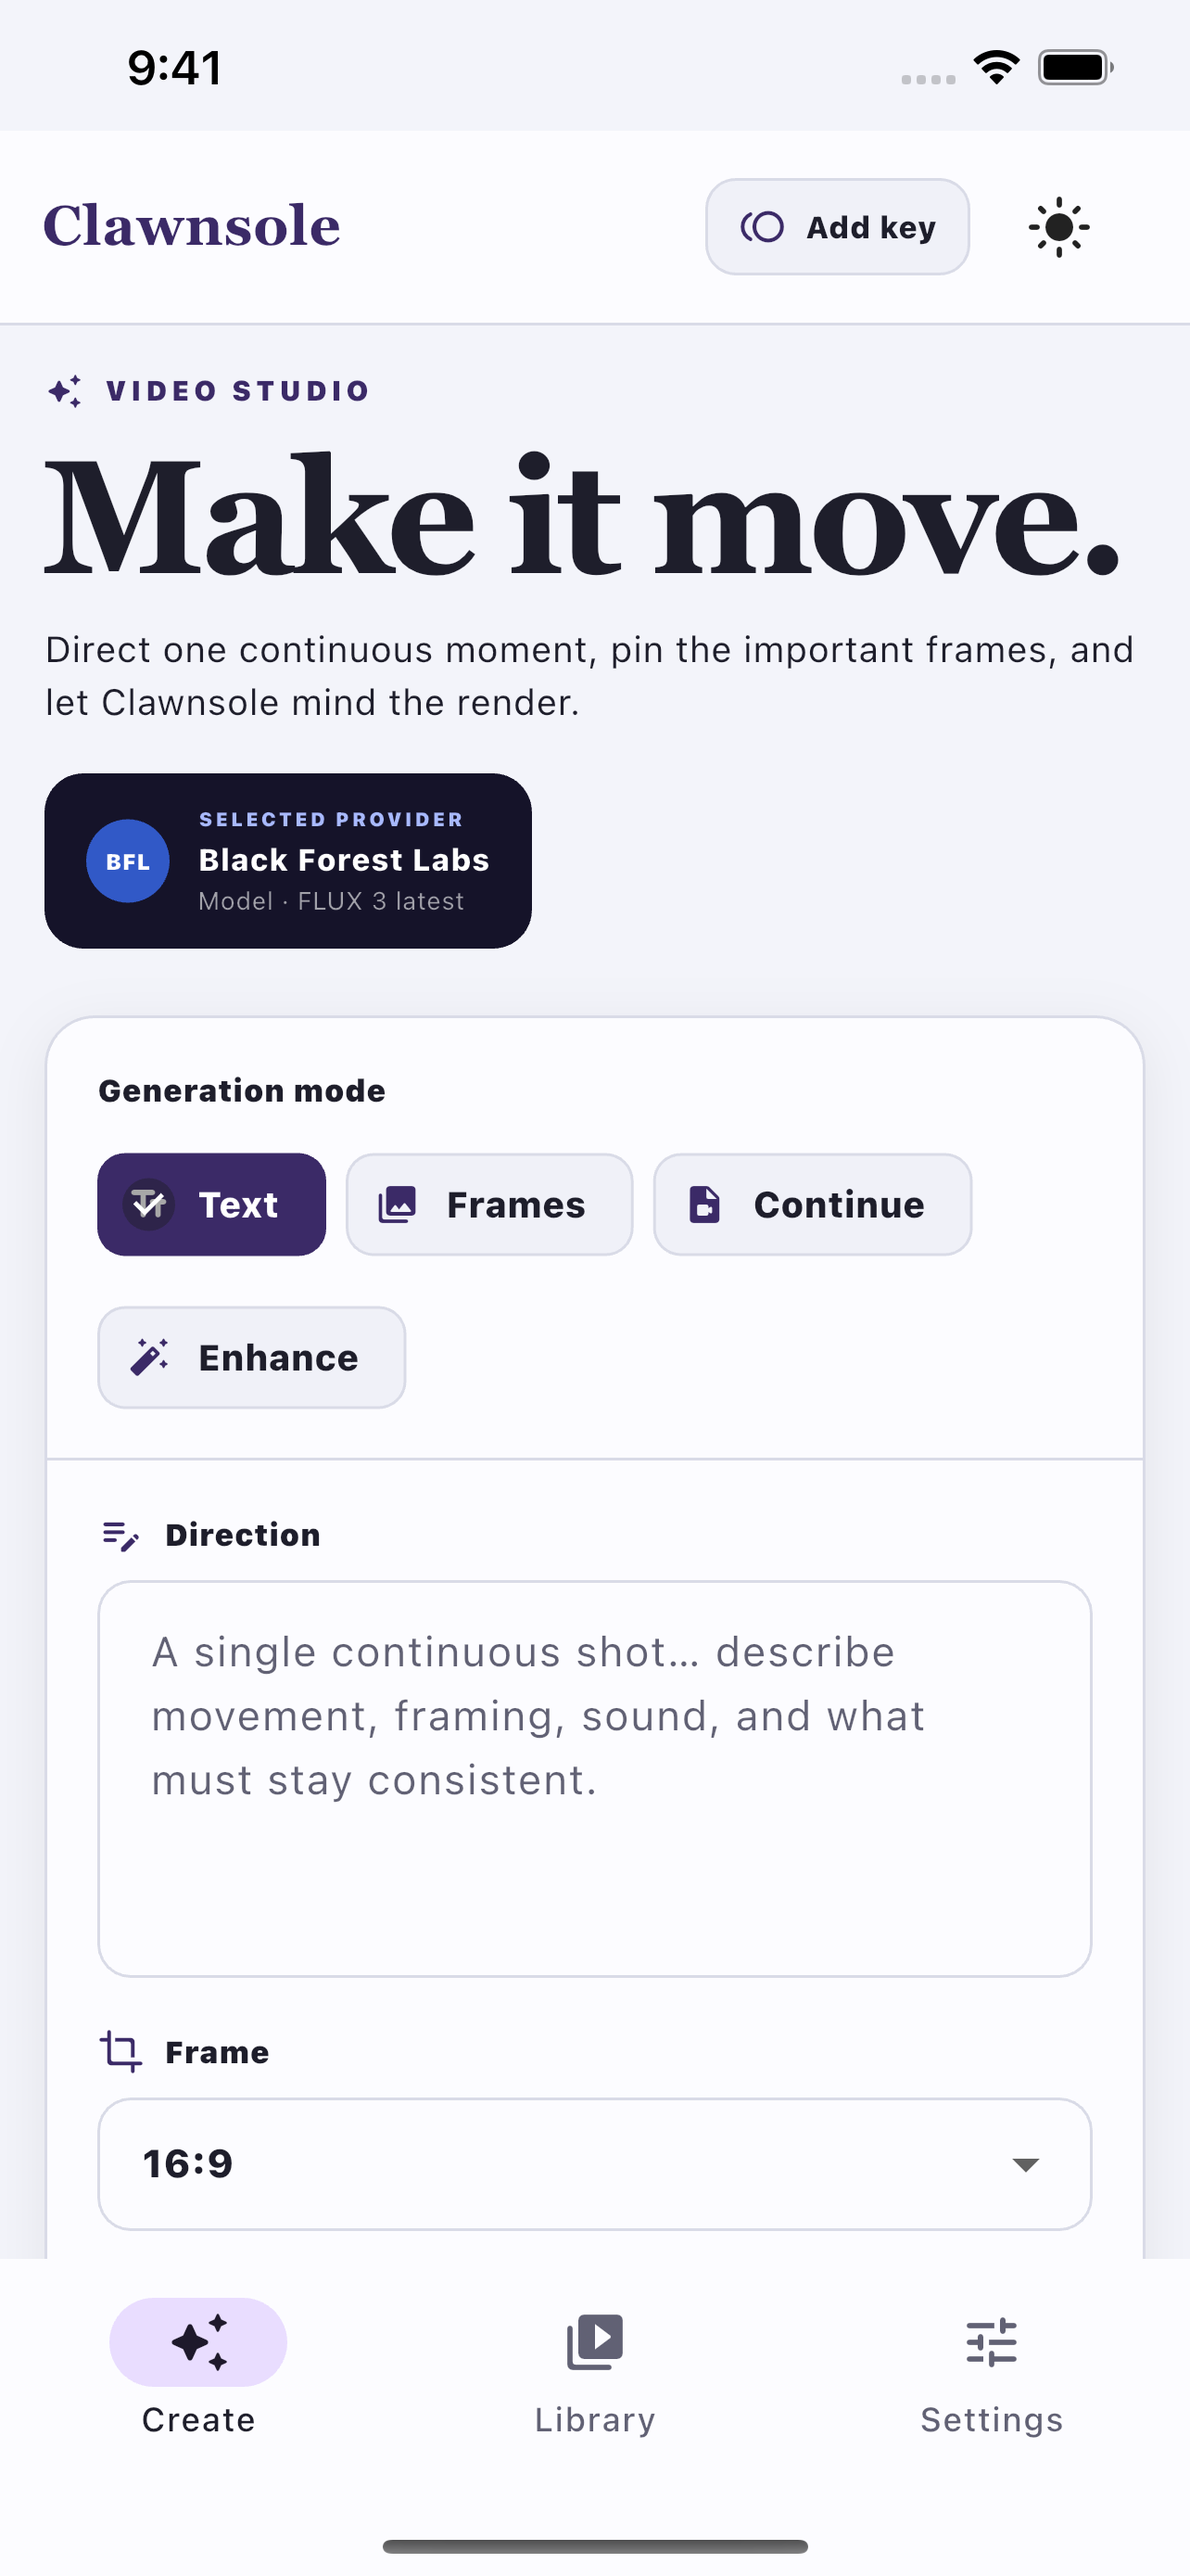
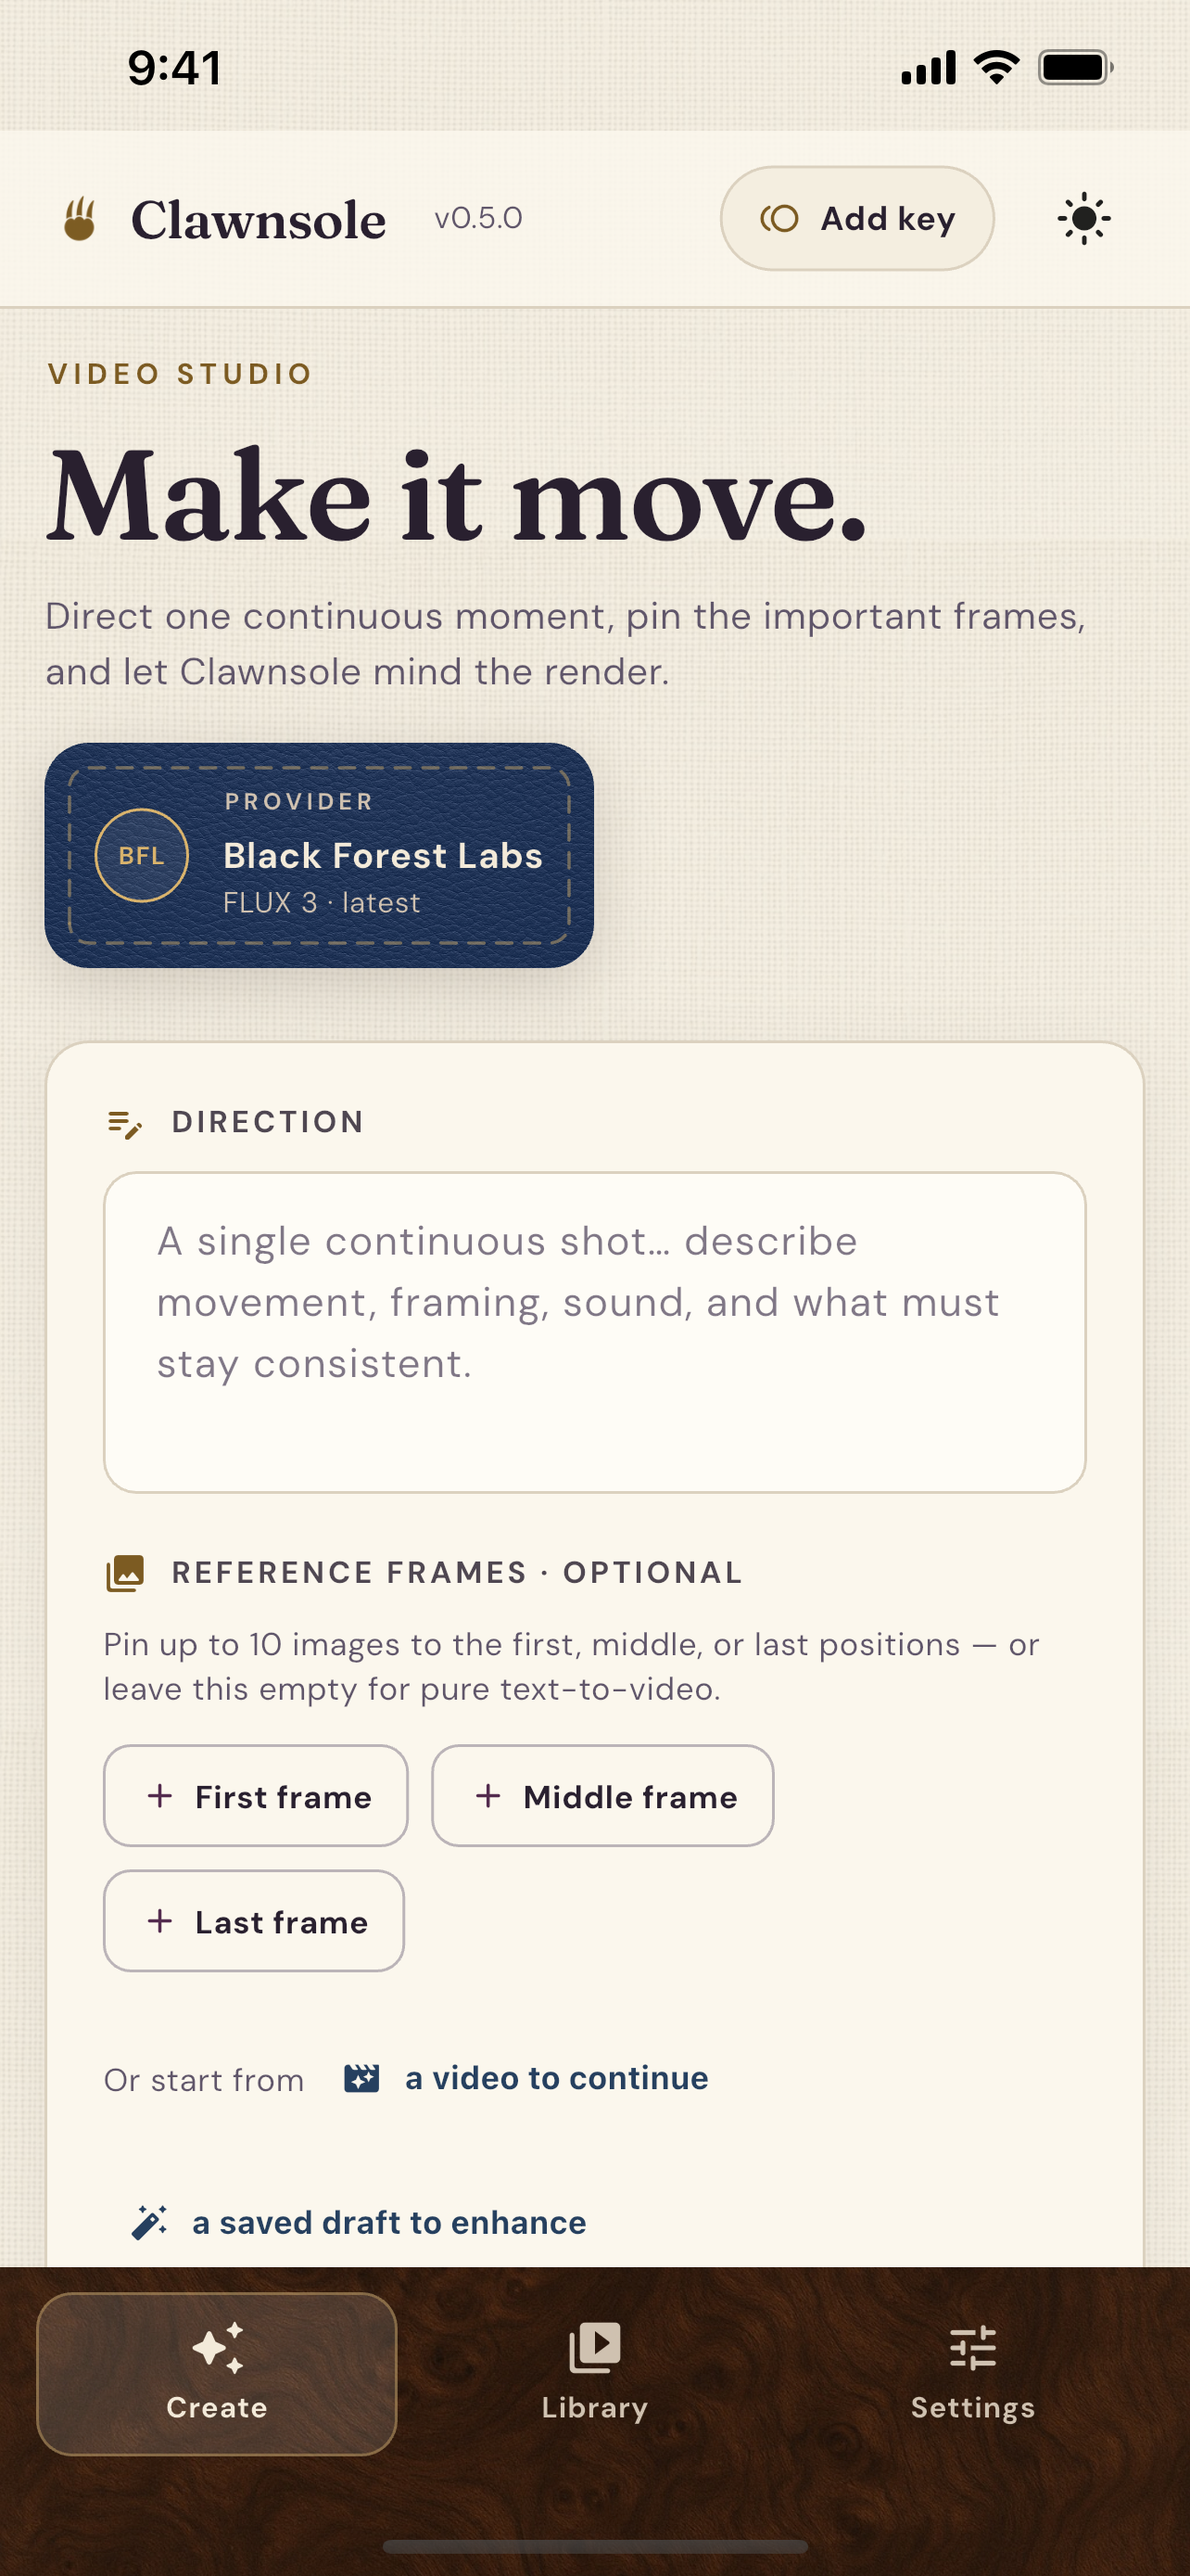
Add fresh iPhone screenshots to README (#11)
* Add fresh iPhone screenshots to README

* Align v0.5.0 badge with release

diff --git a/flutter/lib/core/app_version.dart b/flutter/lib/core/app_version.dart
@@ -3,4 +3,4 @@
 /// `scripts/release/bump_version.py` rewrites this constant together with
 /// `pubspec.yaml` and the Electron package so every surface reports the same
 /// release.
-const clawnsoleVersion = '0.4.1';
+const clawnsoleVersion = '0.5.0';

diff --git a/README.md b/README.md
@@ -21,6 +21,14 @@ Clawnsole is a local-first Flutter video generation workspace with a premium,
 midcentury-inspired interface. It currently supports Black Forest Labs' FLUX 3
 video API and keeps provider boundaries explicit for future video services.
 
+## iPhone
+
+<p align="center">
+  <img src="docs/app-store/iphone/01-create.png" alt="Create an AI video in Clawnsole on iPhone" width="31%">
+  <img src="docs/app-store/iphone/02-frames.png" alt="Configure reference frames in Clawnsole on iPhone" width="31%">
+  <img src="docs/app-store/iphone/03-library.png" alt="Browse the local film library in Clawnsole on iPhone" width="31%">
+</p>
+
 ## What it does
 
 - Text-to-video, image-to-video, video continuation, and draft enhancement
